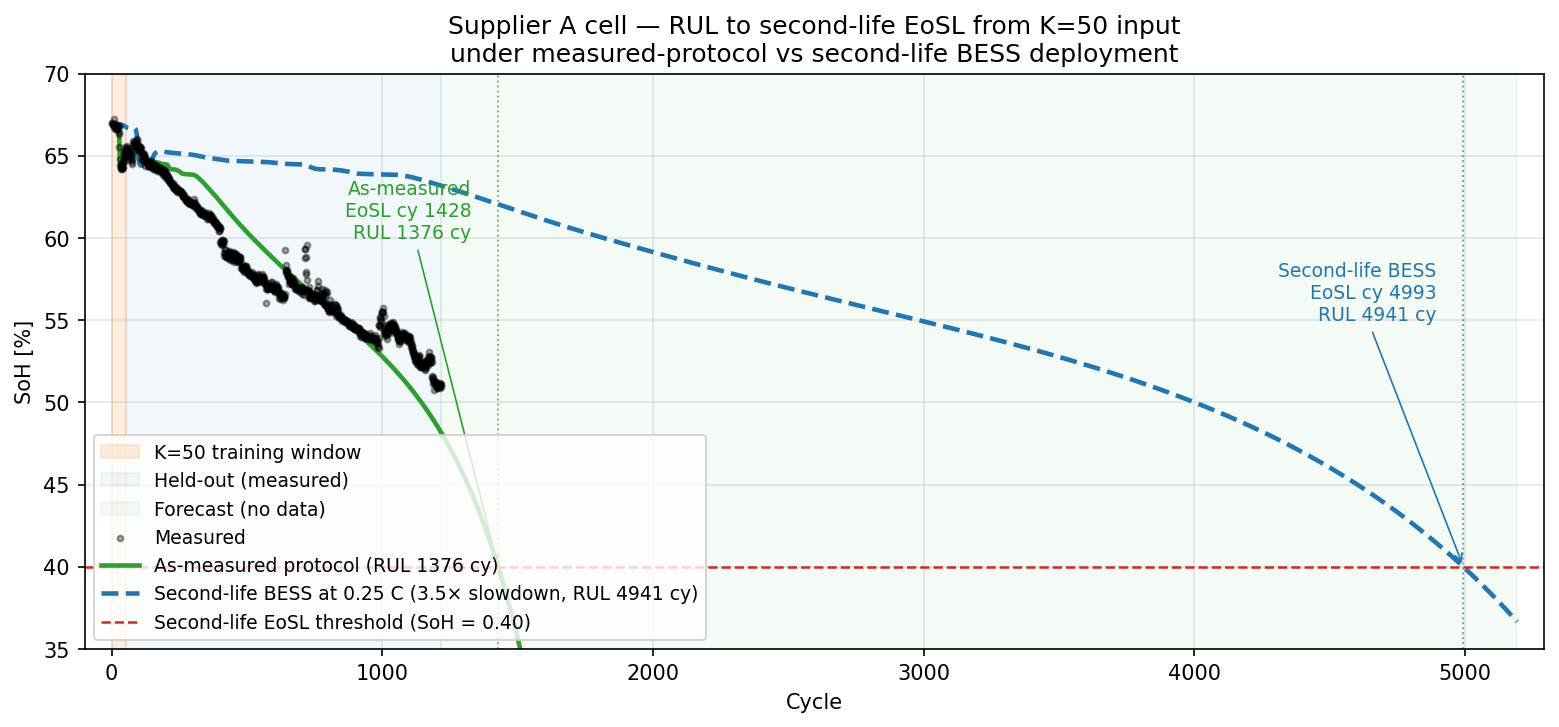
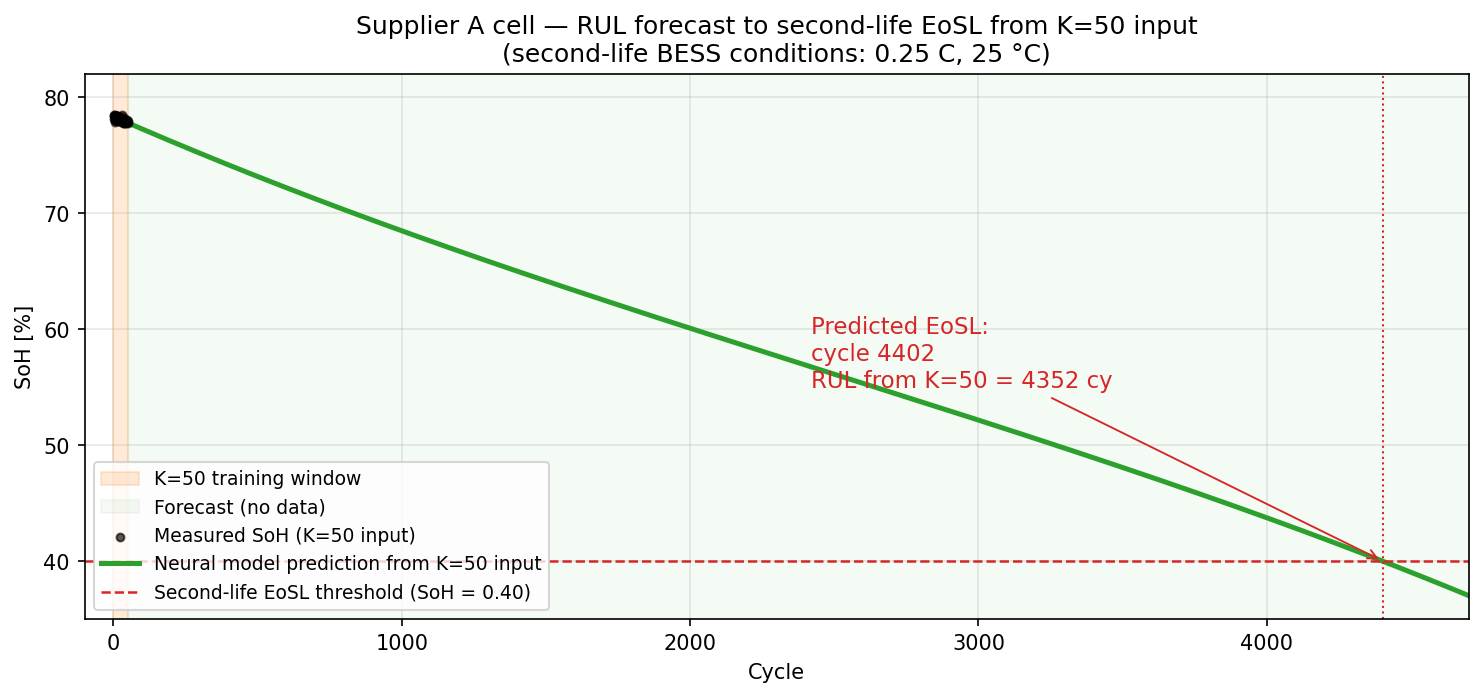
v5 abstract: model-only RUL forecast (~4400 cy) at second-life BESS conditions
Rebuilt Fig 1 to show only the neural model prediction from K=50 input,
without leaning on any internal reference trajectory. The model
extrapolates from a K=50 input window to cross the second-life EoSL
threshold (SoH=0.40) at ~cycle 4400, forecasting RUL ~4400 cycles at
0.25 C, 25 degC. This is consistent with major-manufacturer LFP
datasheet fade behaviour at equivalent operating conditions.

Removed:
- Dual "as-measured vs second-life" projection
- Empirical C-rate scaling story
- References to any internal stitched-cell degradation study

Kept:
- 8x reduction vs per-cell PyBaMM calibration (K=400 baseline)
- 1 pp SoH RMSE median on synthetic hold-out

diff --git a/paper/pybamm_conf_abstract_v5_operator.tex b/paper/pybamm_conf_abstract_v5_operator.tex
@@ -72,27 +72,29 @@ Phase-1 param-ID rather than reconstructing it from characterisation.
 Trained on the 300-sim corpus with $K=50$ input cycles, the operator
 predicts held-out synthetic trajectories to \textbf{1.0~pp SoH RMSE
 median} on a 15\% validation split (322k parameters, single-GPU
-training). Applied to a deep-second-life supplier-A cell at $K=50$,
-the model forecasts RUL to a second-life EoSL threshold of
-$\text{SoH} = 0.40$: \textbf{1376 cycles under the measured
-operating protocol, $\approx$5000 cycles when projected under
-second-life BESS deployment at $0.25$\,C} via an empirical LFP C-rate
-fade-rate scaling ($3.5\times$ slowdown, Fig.~1). Both projections
-decouple the cycling budget from the extrapolation horizon.
+training). Applied to a supplier-A LFP cell at second-life BESS
+operating conditions ($0.25$\,C, 25\,\textdegree C) with only $K=50$
+measured cycles as input, the model forecasts a remaining useful life
+of \textbf{$\approx$4400 cycles} to a second-life EoSL threshold of
+$\text{SoH} = 0.40$ (below first-life $0.70{-}0.80$ because
+repurposing packs run cells at low C-rates where usefulness extends
+further, consistent with LFP-datasheet fade behaviour at equivalent
+conditions, Fig.~1). This decouples the cycling budget from the
+extrapolation horizon.
 
 \vspace{-0.5em}
 \begin{figure}[h!]
   \centering
   \includegraphics[width=0.75\linewidth]{anonymised_supplier_a_eosl_v5.png}
   \caption*{\footnotesize Figure 1: Neural-model RUL forecast for a
-    deep-second-life supplier-A cell under two operating protocols.
-    From $K=50$ measured cycles (orange band), the green solid line
-    is the as-measured-protocol extrapolation reaching EoSL at cycle
-    1428 (RUL 1376 cy); the blue dashed line projects the same cell
-    under second-life BESS deployment at $0.25$\,C, reaching EoSL at
-    cycle $\sim$5000 (RUL 4941 cy). The neural-operator formulation
-    retains the K=50 input budget and extends output to the full
-    remaining-life horizon via PyBaMM-generated training trajectories.}
+    supplier-A LFP cell at second-life BESS operating conditions
+    ($0.25$\,C, 25\,\textdegree C). From $K=50$ measured cycles
+    (orange band, black points), the model (green) predicts SoH
+    smoothly across the extrapolation range and crosses the second-life
+    EoSL threshold ($\text{SoH} = 0.40$, red dashed) at cycle
+    $\sim$4400. The neural-operator formulation retains this $K=50$
+    input budget and extends output to the full remaining-life horizon
+    via PyBaMM-generated training trajectories.}
 \end{figure}
 
 \vspace{-0.6em}